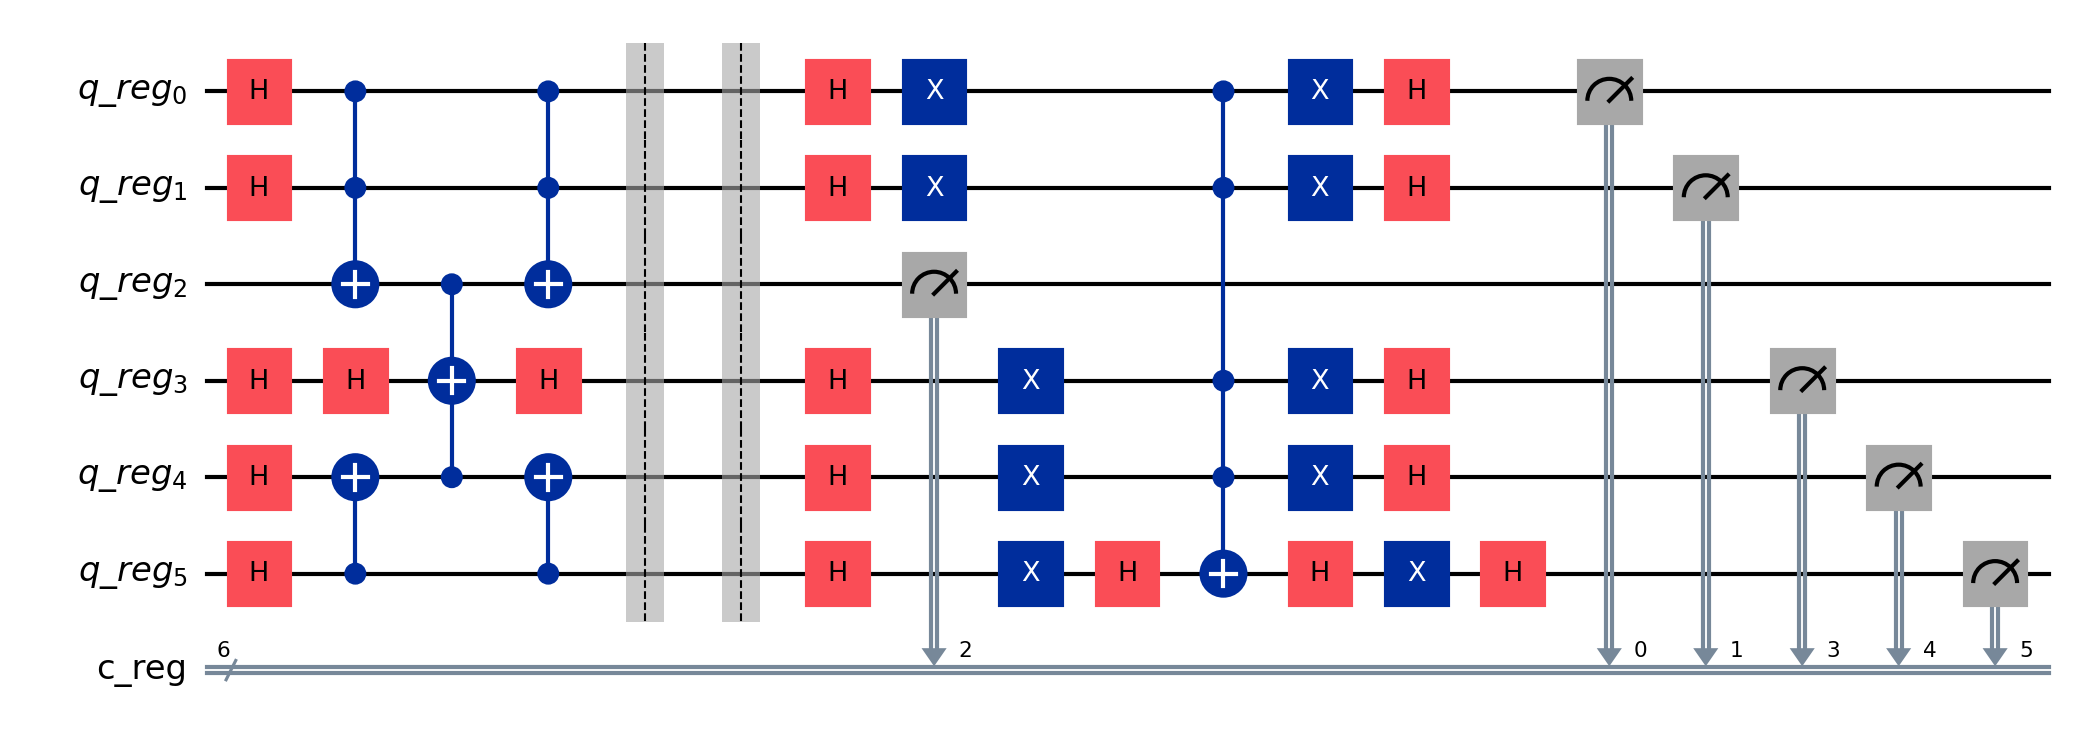
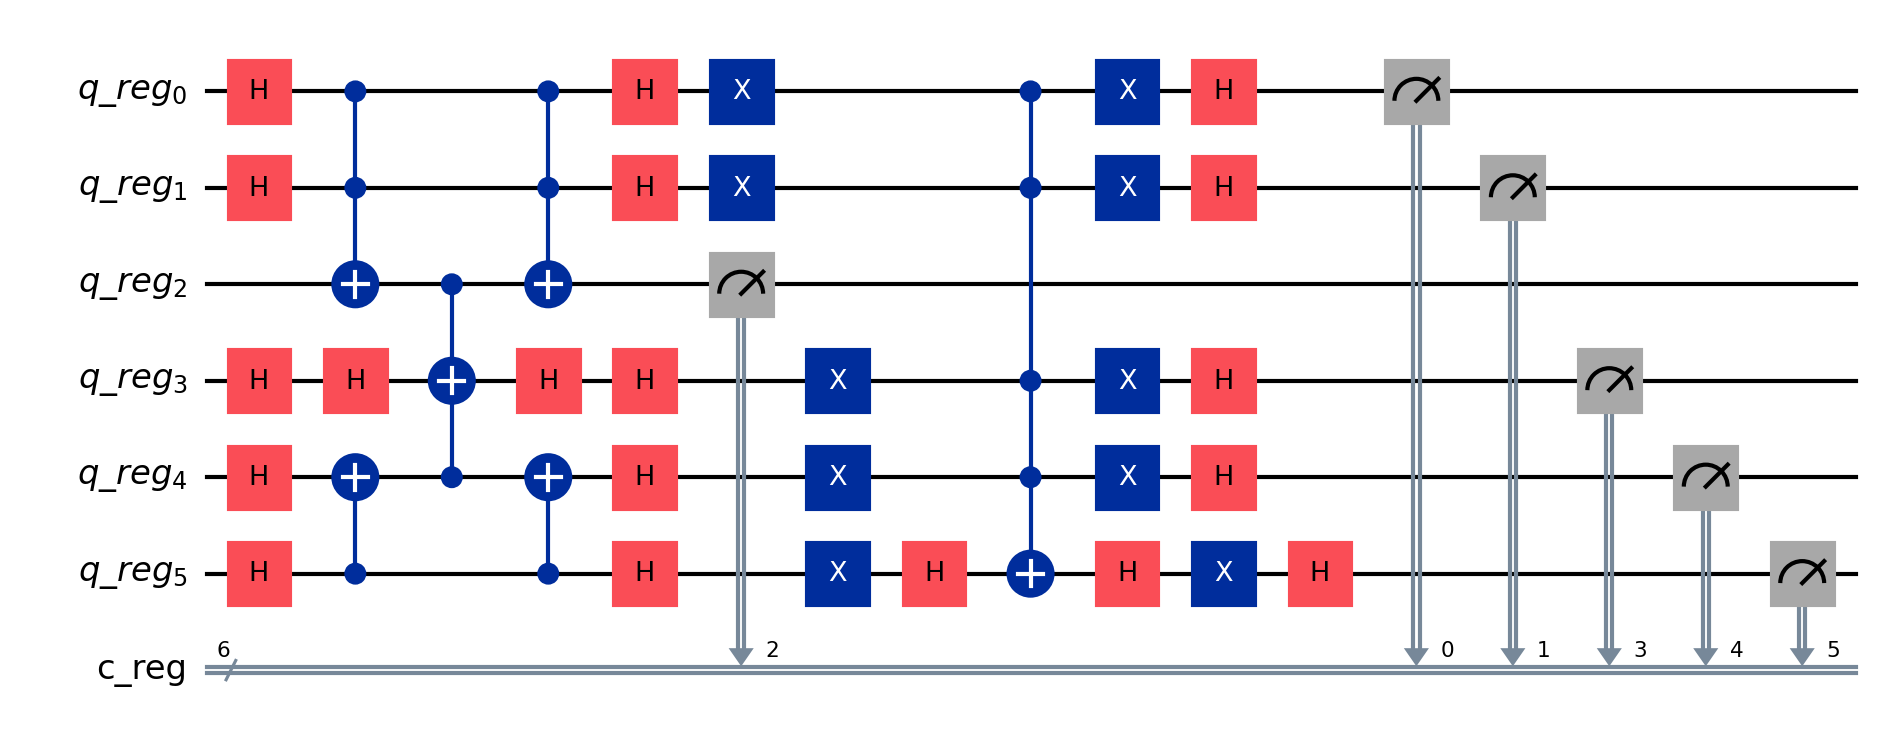
Fixed readme.md

diff --git a/algorithms/condition2/main.py b/algorithms/condition2/main.py
@@ -90,9 +90,7 @@ def algorithm(qb_count: int) -> qk.QuantumCircuit:
     circuit = qk.QuantumCircuit(reg_quantum, reg_classic)
 
     circuit.h([reg_quantum[0], reg_quantum[1], reg_quantum[3], reg_quantum[4], reg_quantum[5]])
-
     circuit.mcx([reg_quantum[0], reg_quantum[1]], reg_quantum[2])
-
     circuit.cx(reg_quantum[5], reg_quantum[4])
 
     # CCZ garte
@@ -103,28 +101,16 @@ def algorithm(qb_count: int) -> qk.QuantumCircuit:
     circuit.mcx([reg_quantum[0], reg_quantum[1]], reg_quantum[2])
     circuit.cx(reg_quantum[5], reg_quantum[4])
 
-    # RESET
-    circuit.barrier()
-
-    # circuit.mcx([reg_quantum[0], reg_quantum[1]], reg_quantum[2])
-    # circuit.ccx(reg_quantum[0], reg_quantum[1], reg_quantum[2])
-    # circuit.ccx(reg_quantum[1], reg_quantum[0], reg_quantum[2])
-    #
-    # circuit.cx(reg_quantum[5], reg_quantum[4])
-    circuit.barrier()
-
-    # RESET END
-
+    # DIFFUSION
     circuit.h([reg_quantum[0], reg_quantum[1], reg_quantum[3], reg_quantum[4], reg_quantum[5]])
-
     circuit.x([reg_quantum[0], reg_quantum[1], reg_quantum[3], reg_quantum[4], reg_quantum[5]])
 
+    # CCZ garte
     circuit.h(reg_quantum[5])
     circuit.mcx([reg_quantum[0], reg_quantum[1], reg_quantum[3], reg_quantum[4]], reg_quantum[5])
     circuit.h(reg_quantum[5])
 
     circuit.x([reg_quantum[0], reg_quantum[1], reg_quantum[3], reg_quantum[4], reg_quantum[5]])
-
     circuit.h([reg_quantum[0], reg_quantum[1], reg_quantum[3], reg_quantum[4], reg_quantum[5]])
 
     circuit.measure(reg_quantum, reg_classic)

diff --git a/README.md b/README.md
@@ -8,11 +8,23 @@ Here you can find a list of implemented algorithms:
 ### Hello world
 This is a simple quantum circuit that creates a superposition of 2 qubits and measures them.
 
+### OR in quantum computing
+
+### XOR in quantum computing
+
+### AND in quantum computing
+
 ### Quantum teleportation
 This is a simple quantum circuit that creates a quantum teleportation of a qubit (our example is 1 and 3).
 
 ### Grover algorithm
 This is a quantum algorithm that uses Grover's algorithm to search for a target state in a quantum database. The algorithm is implemented in Qiskit and uses the IBM Quantum Experience to run the quantum circuits.
+
+### Condition1 algorithm ((x^y) && (i || j)
+In this case we have condition ((y ^ x) && (i || j)) and we wanna get all conditions with result true (you can get also count of results). We can use something like grover algorithm.
+
+### Condition2 algorithm ((x^y) && (i && j)
+In this case we have condition ((y ^ x) && (i && j)) and we wanna get all conditions with result true (you can get also count of results). We can use something like grover algorithm.
 
 ## References
 - [Qiskit Documentation](https://qiskit.org/documentation/)
